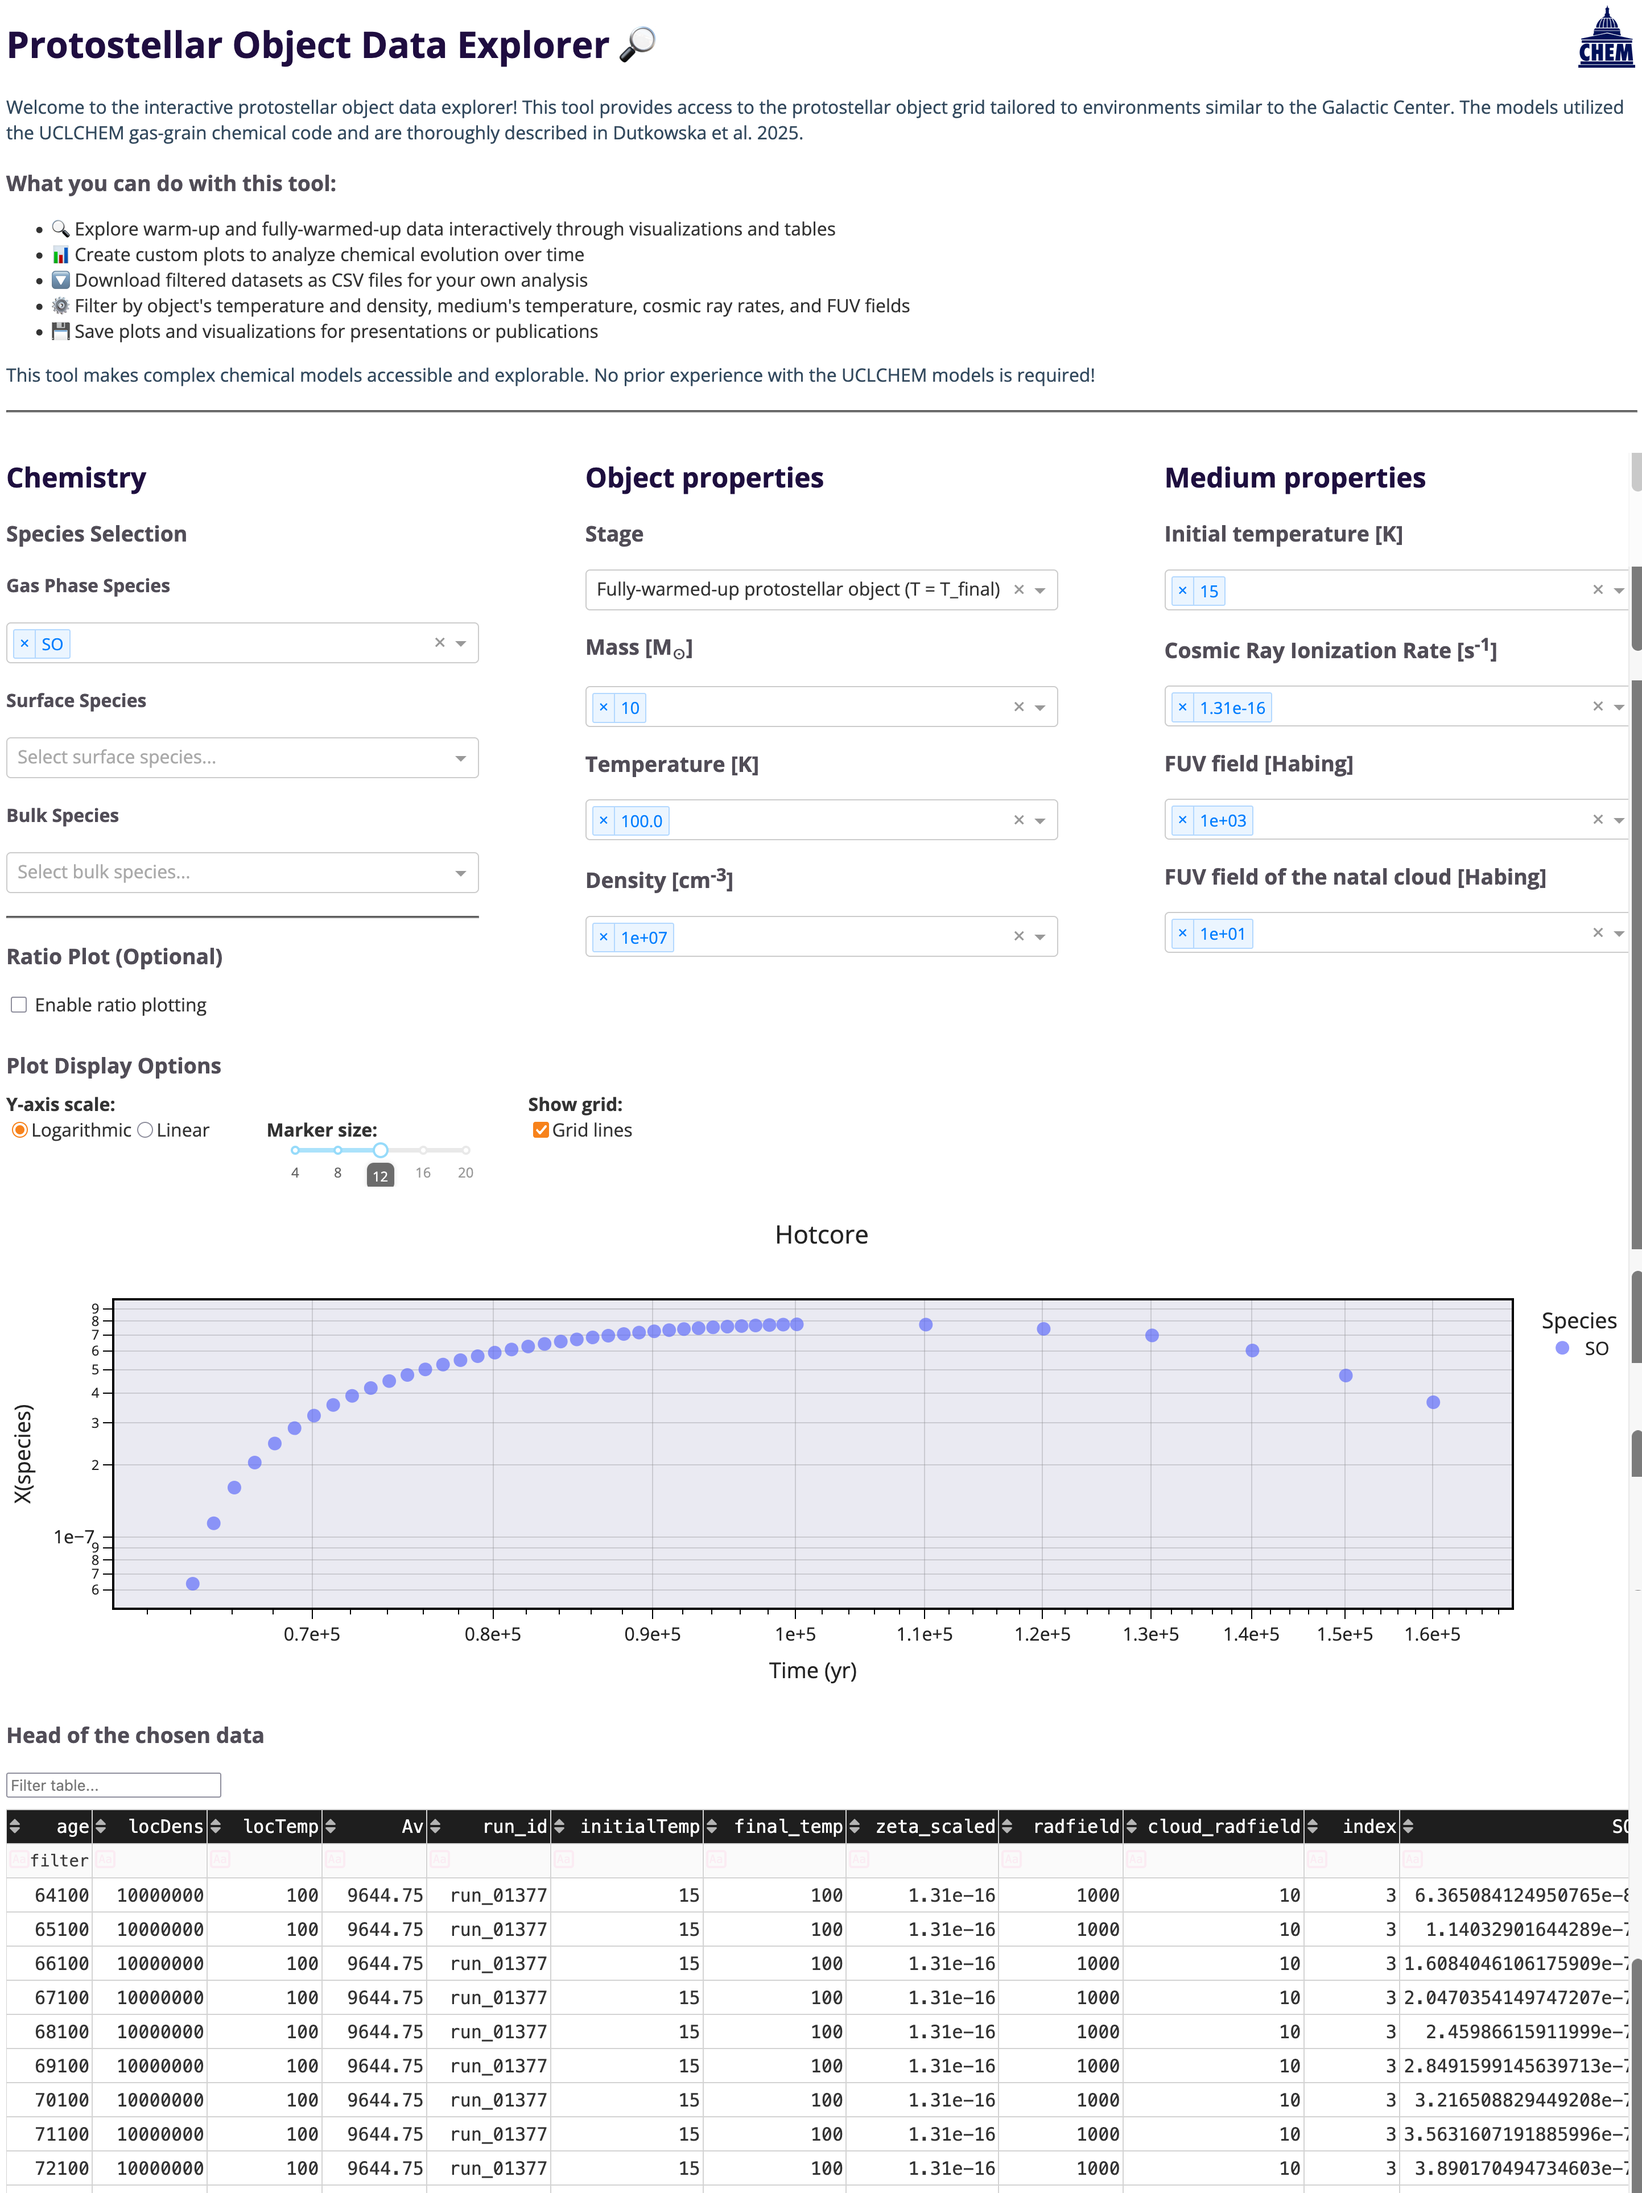
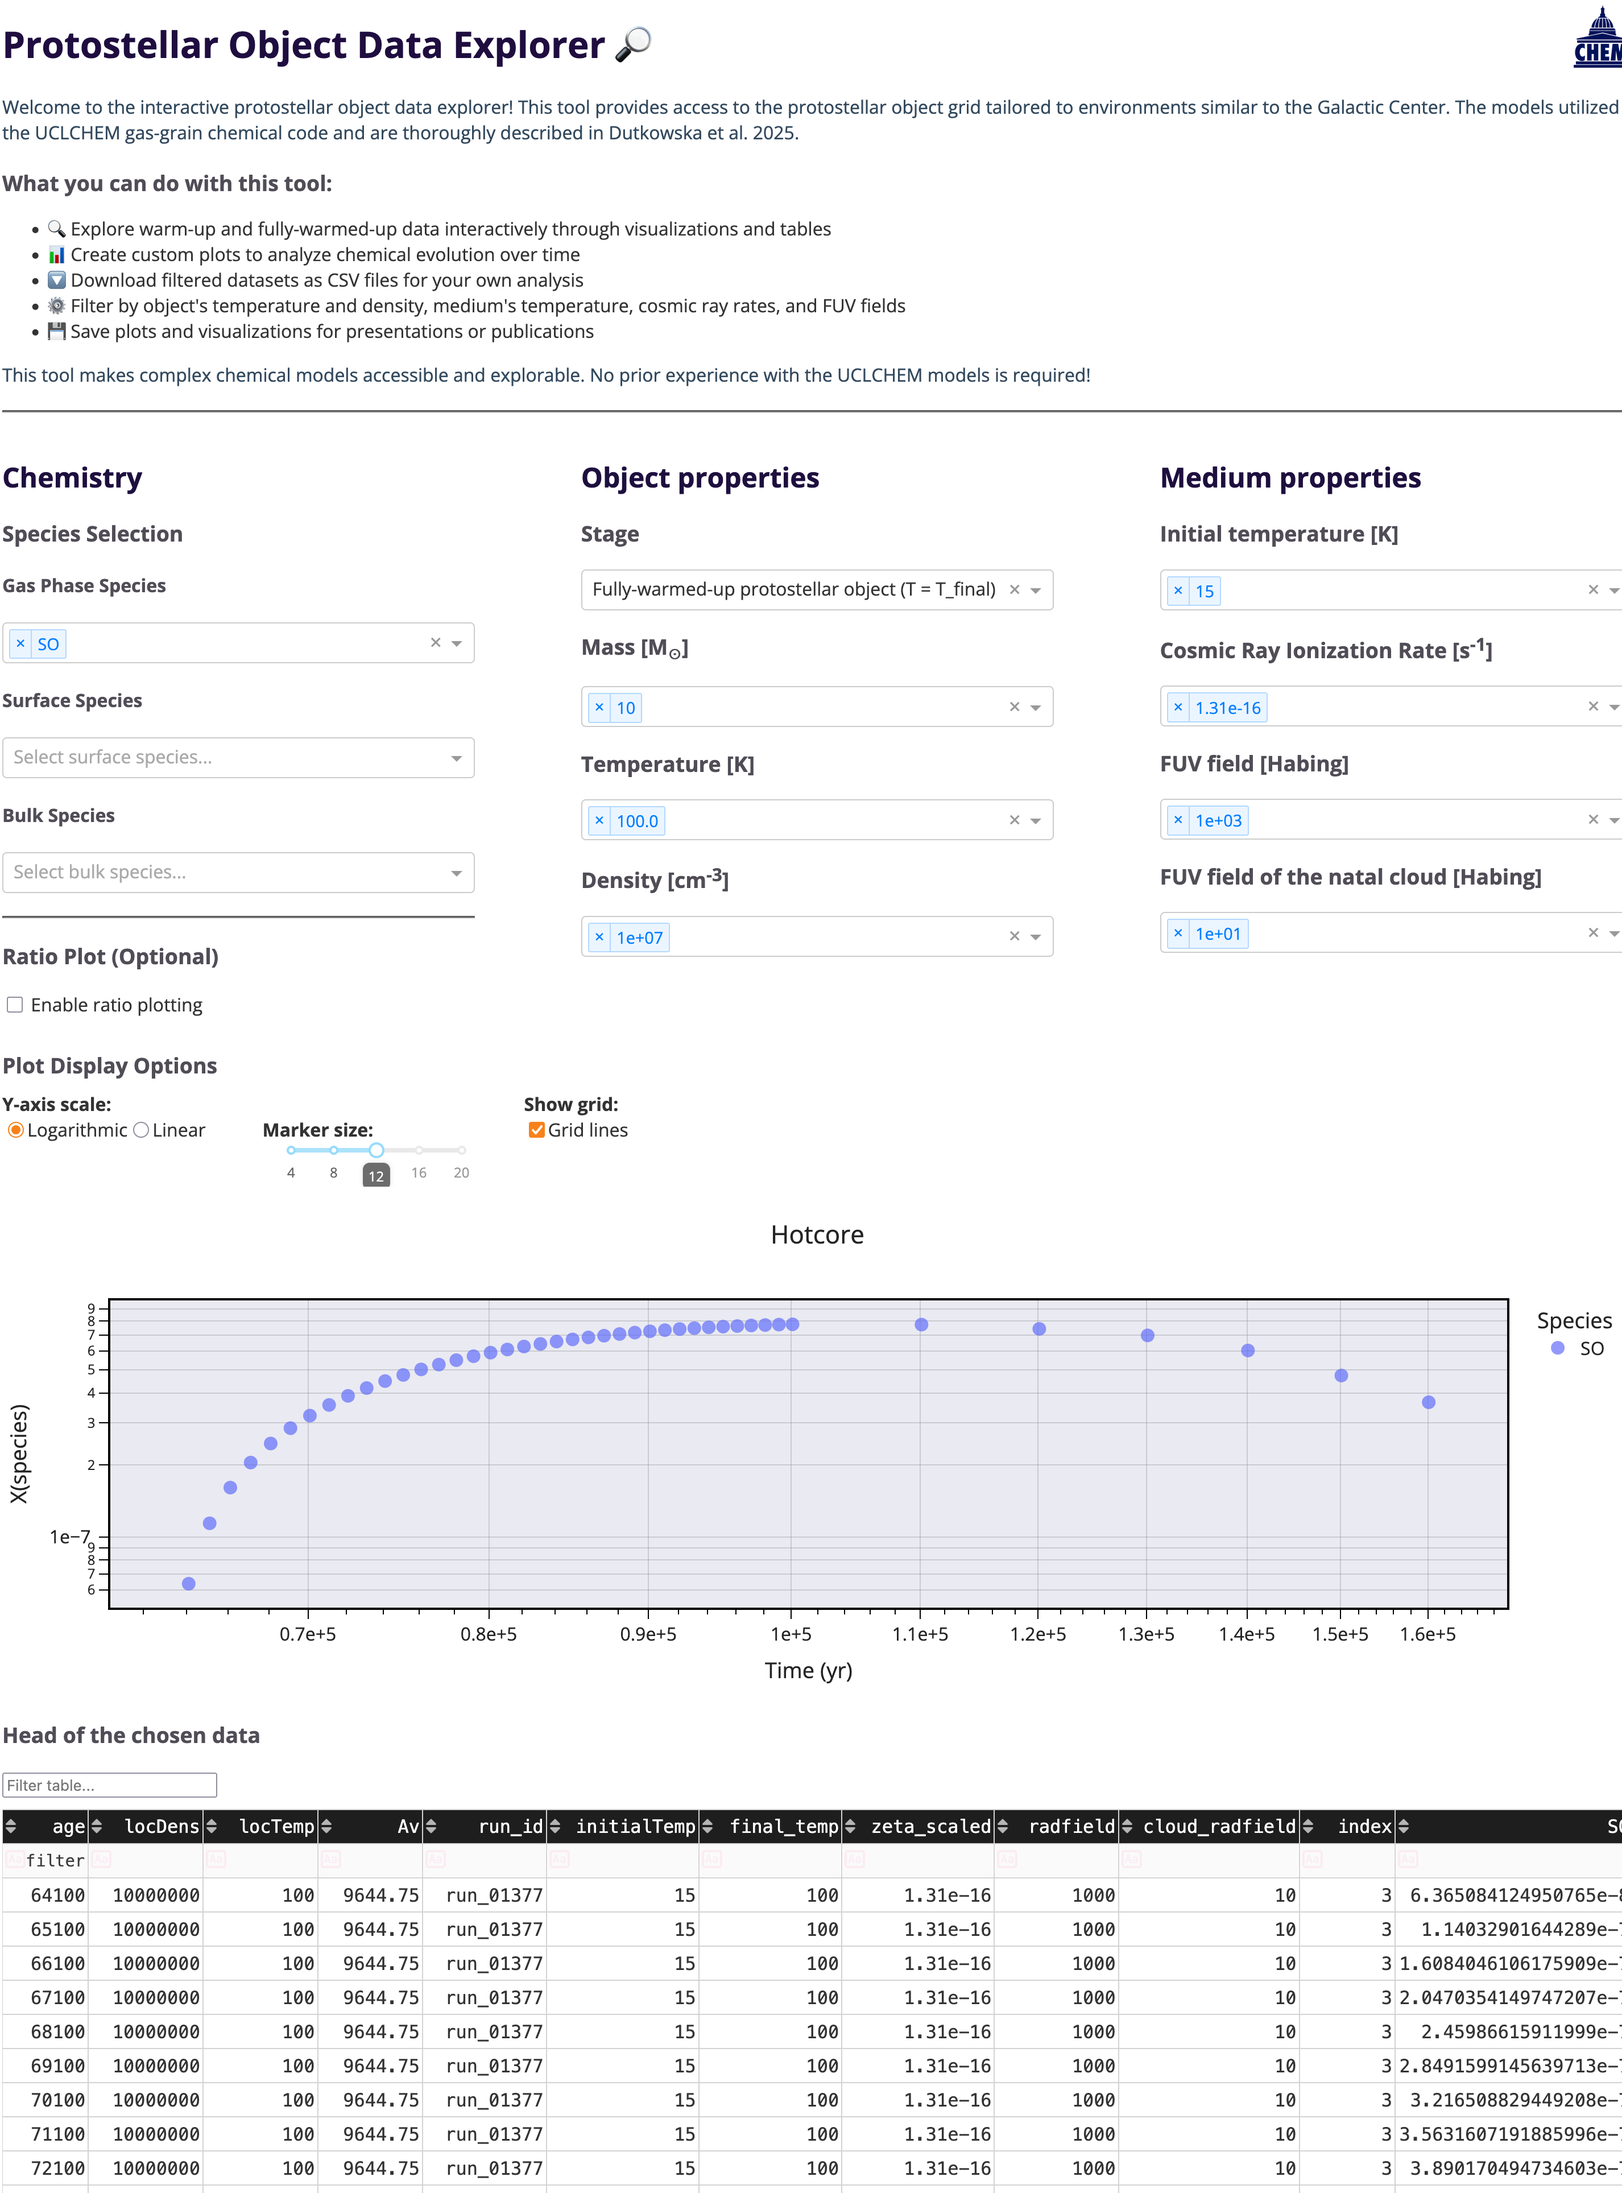
README.md changes

diff --git a/README.md b/README.md
@@ -74,7 +74,7 @@ To stop the app, press `CTRL+C` in the terminal where it's running.
 When you're done working with the app, you can deactivate the environment with:
 `conda deactivate`
 
-Below is an example of the app in use when one species is plotted:
+Below is an example of the app in use when one species is plotted (note this is just a cropped screenshot):
 ![Working app example](./codes/assets/Working-app.png)
 
 ---
